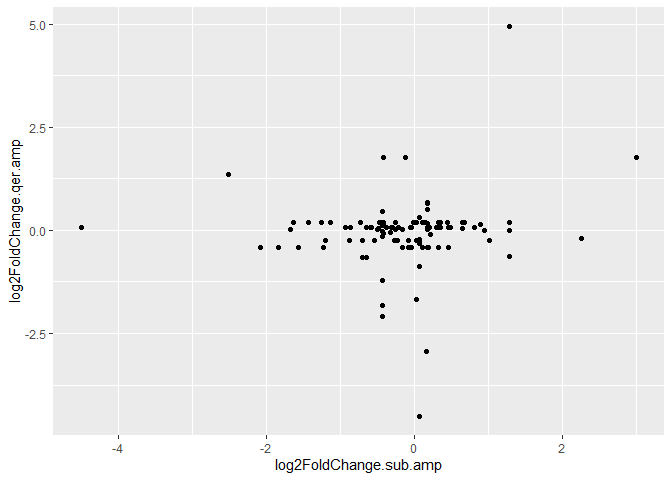
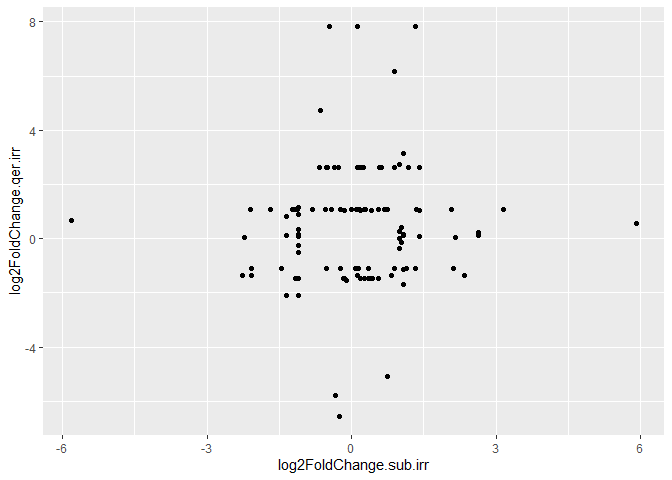
Correción de gráficas

diff --git a/gitlncRNA.md b/gitlncRNA.md
@@ -67,10 +67,10 @@ filter(qer_sub_diff, (log2FoldChange.qer.irr * log2FoldChange.sub.irr) < 0) %>% 
 ``` r
 #amp
 #Gráfica de puntos con valores de padj significativos.
-filter(qer_sub_diff, padj.qer.irr < 0.05 | padj.sub.irr < 0.05) %>% ggplot(aes(x = log2FoldChange.sub.amp, y = log2FoldChange.qer.amp)) + geom_point()
+filter(qer_sub_diff, padj.qer.irr < 0.05 | padj.sub.irr < 0.05) %>% ggplot(aes(x = log2FoldChange.sub.irr, y = log2FoldChange.qer.irr)) + geom_point()
 ```
 
-    ## Warning: Removed 6 rows containing missing values (`geom_point()`).
+    ## Warning: Removed 4 rows containing missing values (`geom_point()`).
 
 ![](gitlncRNA_files/figure-gfm/unnamed-chunk-4-1.png)<!-- -->
 
@@ -102,10 +102,10 @@ filter(diff_rati_olvidados, padj.qer.amp < 0.05 | padj.sub.amp < 0.05) %>% ggplo
 ``` r
 #irr
 # Gráfica de puntos con valores de padj significativos.
-filter(diff_rati_olvidados, padj.qer.irr < 0.05 | padj.sub.irr < 0.05) %>% ggplot(aes(x = log2FoldChange.sub.amp, y = log2FoldChange.qer.amp)) + geom_point()
+filter(diff_rati_olvidados, padj.qer.irr < 0.05 | padj.sub.irr < 0.05) %>% ggplot(aes(x = log2FoldChange.sub.irr, y = log2FoldChange.qer.irr)) + geom_point()
 ```
 
-    ## Warning: Removed 13 rows containing missing values (`geom_point()`).
+    ## Warning: Removed 6 rows containing missing values (`geom_point()`).
 
 ![](gitlncRNA_files/figure-gfm/unnamed-chunk-5-2.png)<!-- -->
 
@@ -161,7 +161,7 @@ prot %>% filter(UTR5porcentaje>0) %>%   ggplot(aes(x = UTR5porcentaje)) + geom_h
 Correlación positiva para el caso 1 (el alineamiento es únicamente en la
 zona CDS)
 
-ANOTACIONES PARA LOS CASOS \#####
+**ANOTACIONES PARA LOS CASOS**
 
     Pearson's product-moment correlation
 
@@ -170,7 +170,7 @@ df = 21331, p-value \< 2.2e-16 alternative hypothesis: true correlation
 is greater than 0 95 percent confidence interval: 0.1400006 1.0000000
 sample estimates: cor 0.1510244
 
-Explicación sobre los DF
+\##Explicación sobre los DF
 
 Descripción del trabajo
 
